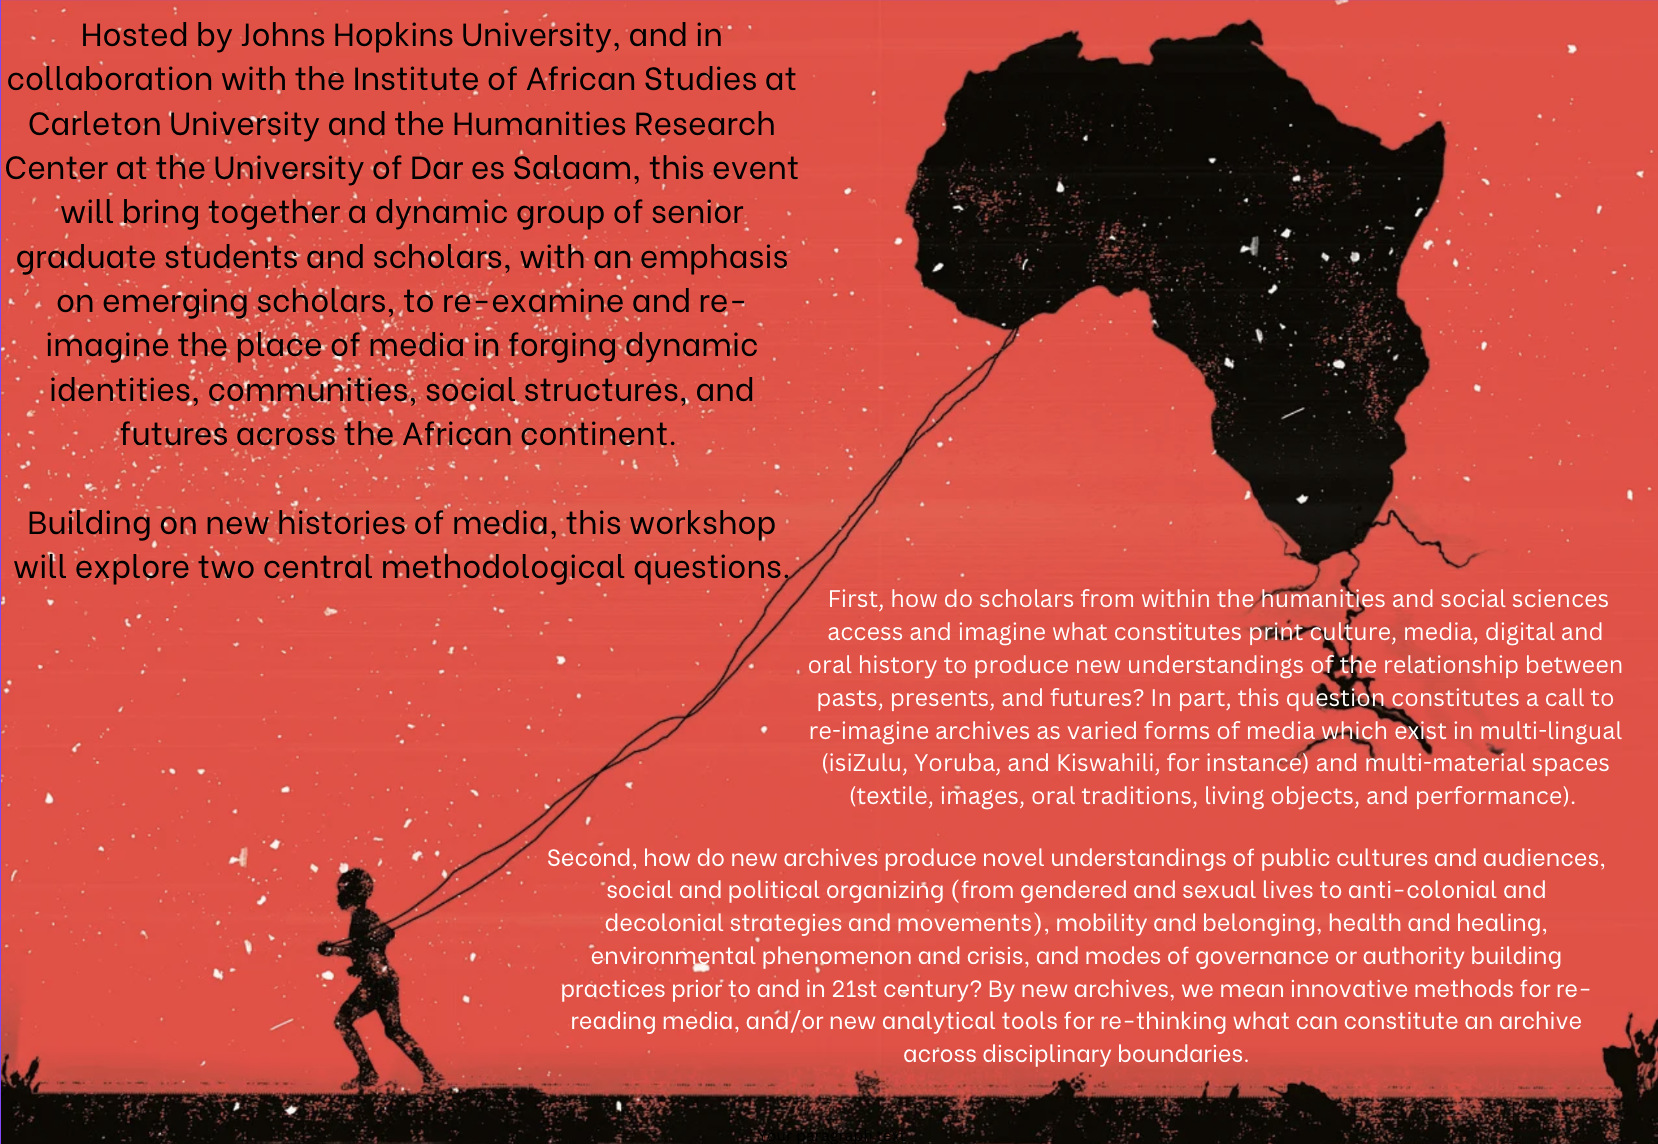
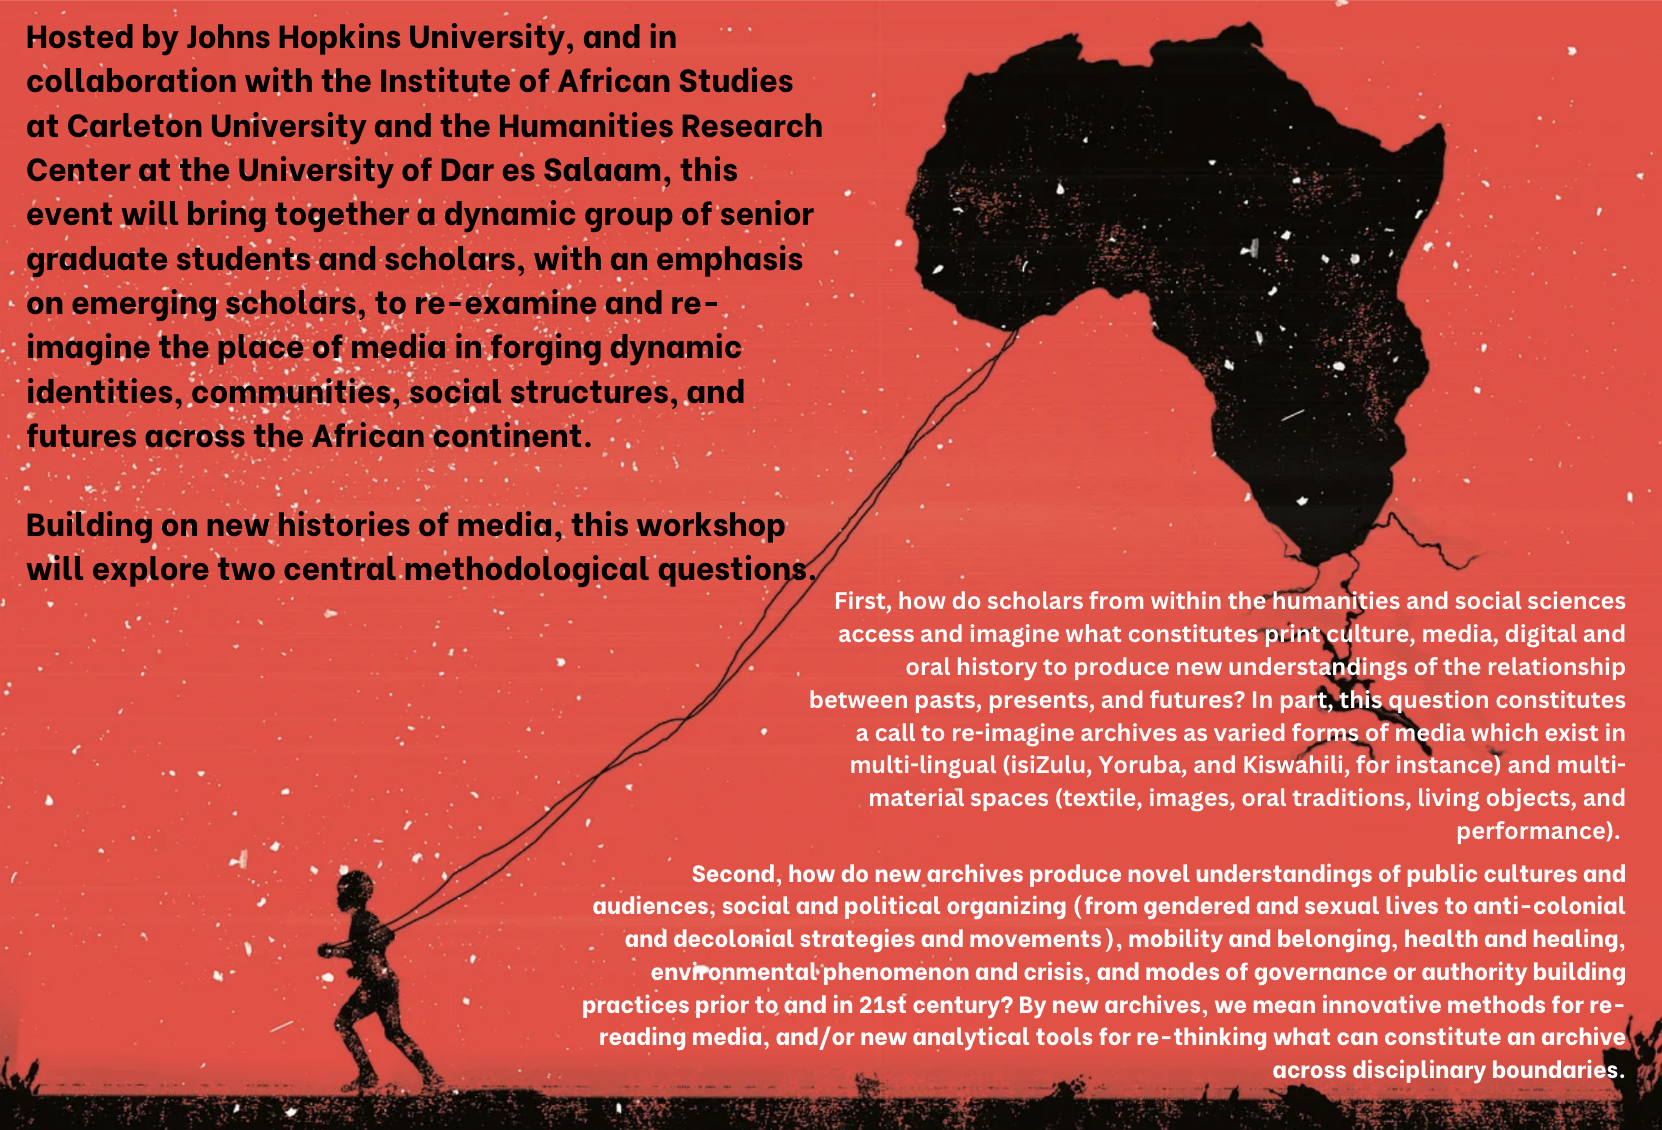
about update (bolded)

diff --git a/assets/css/style.scss b/assets/css/style.scss
@@ -8,7 +8,7 @@
 html { font-family: be-vietnam; /* 1 */ -ms-text-size-adjust: 100%; /* 2 */ -webkit-text-size-adjust: 100%; /* 2 */ }
 
 /** header */
-.page-header { background-image: url("../pages/images/background.jpeg");  text-align: center}
+.page-header { background-image: url("../pages/images/background.jpeg");  text-align: center }
 @media screen and (min-width: 64em) { .page-header { padding: 5rem 6rem; } }
 @media screen and (min-width: 42em) and (max-width: 64em) { .page-header { padding: 3rem 4rem; } }
 @media screen and (max-width: 42em) { .page-header { padding: 2rem 1rem; } }

diff --git a/_layouts/default.html b/_layouts/default.html
@@ -16,6 +16,7 @@
     <a id="skip-to-content" href="#content">Skip to the content.</a>
 
     <header class="page-header" role="banner">
+      <img src="_site/pages/images/background.jpeg" />
       <h1 class="project-name">{{ site.title }}</h1>
       <h1 class="project-subtitle">{{ site.subtitle }}</h1>
       <h2 class="project-tagline">{{ site.description }}</h2>

diff --git a/index.md b/index.md
@@ -4,9 +4,6 @@ layout: default
 
 # About the Workshop  
 ![About Image](../pages/images/aboutsite.jpeg)
-<!-- Hosted by Johns Hopkins University, and in collaboration with the Institute of African Studies at Carleton University and the Humanities Research Center at the University of Dar es Salaam, this event will bring together a dynamic group of senior graduate students and scholars, with an emphasis on emerging scholars, to re-examine and re-imagine the place of media in forging dynamic identities, communities, social structures, and futures across the African continent.  
-
-Building on new histories of media, this workshop will explore two central methodological questions. First, how do scholars from within the humanities and social sciences access and imagine what constitutes print culture, media, digital and oral history to produce new understandings of the relationship between pasts, presents, and futures? In part, this question constitutes a call to re-imagine archives as varied forms of media which exist in multi-lingual (isiZulu, Yoruba, and Kiswahili, for instance) and multi-material spaces (textile, images, oral traditions, living objects, and performance). Second, how do new archives produce novel understandings of public cultures and audiences, social and political organizing (from gendered and sexual lives to anti-colonial and decolonial strategies and movements), mobility and belonging, health and healing, environmental phenomenon and crisis, and modes of governance or authority building practices prior to and in 21st century? By new archives, we mean innovative methods for re-reading media, and/or new analytical tools for re-thinking what can constitute an archive across disciplinary boundaries.-->  
 
 ---
 
